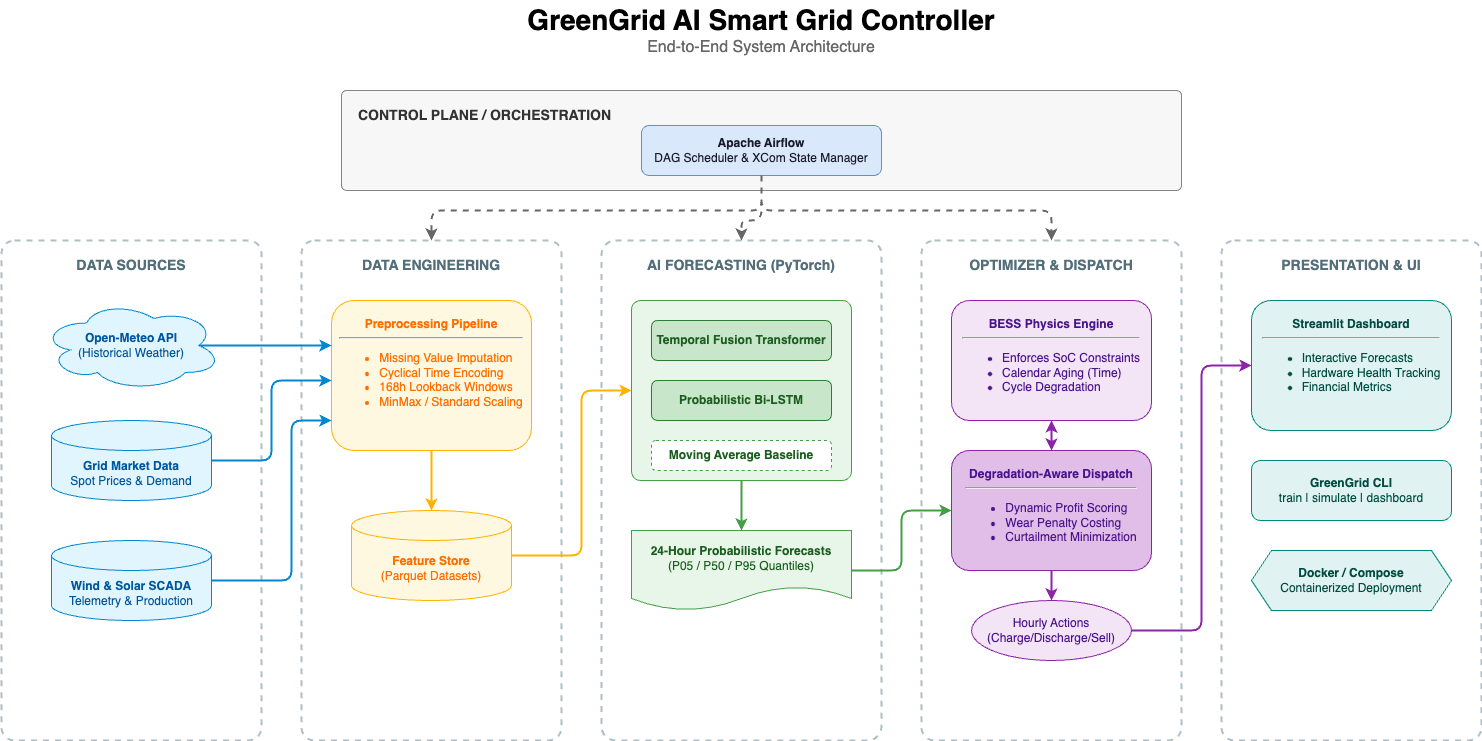
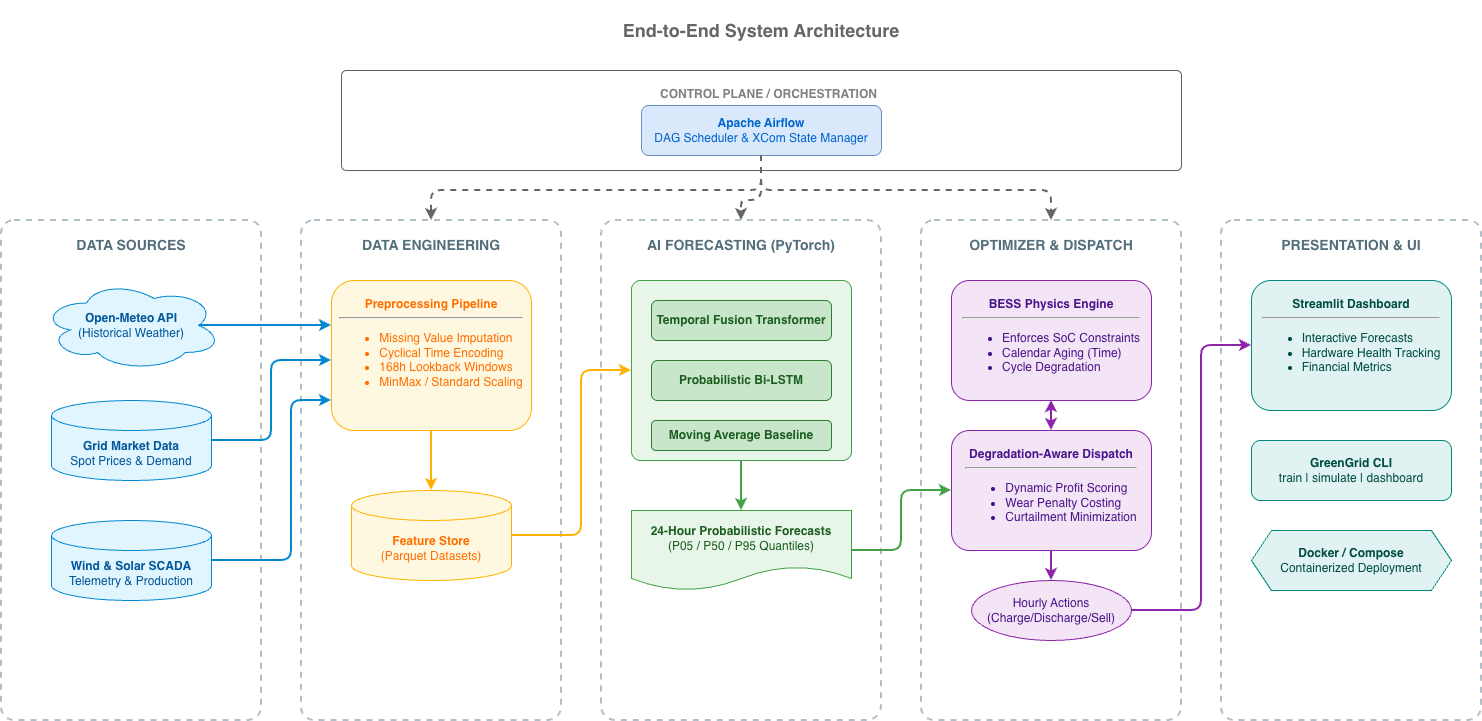
README & diagram update

diff --git a/README.md b/README.md
@@ -1,7 +1,5 @@
 # GreenGrid
 
-**AI-driven smart grid controller for renewable forecasting and degradation-aware battery dispatch.**
-
 [![Python](https://img.shields.io/badge/python-3.13+-blue)](https://www.python.org/)
 [![License](https://img.shields.io/badge/license-MIT-green)](LICENSE)
 
